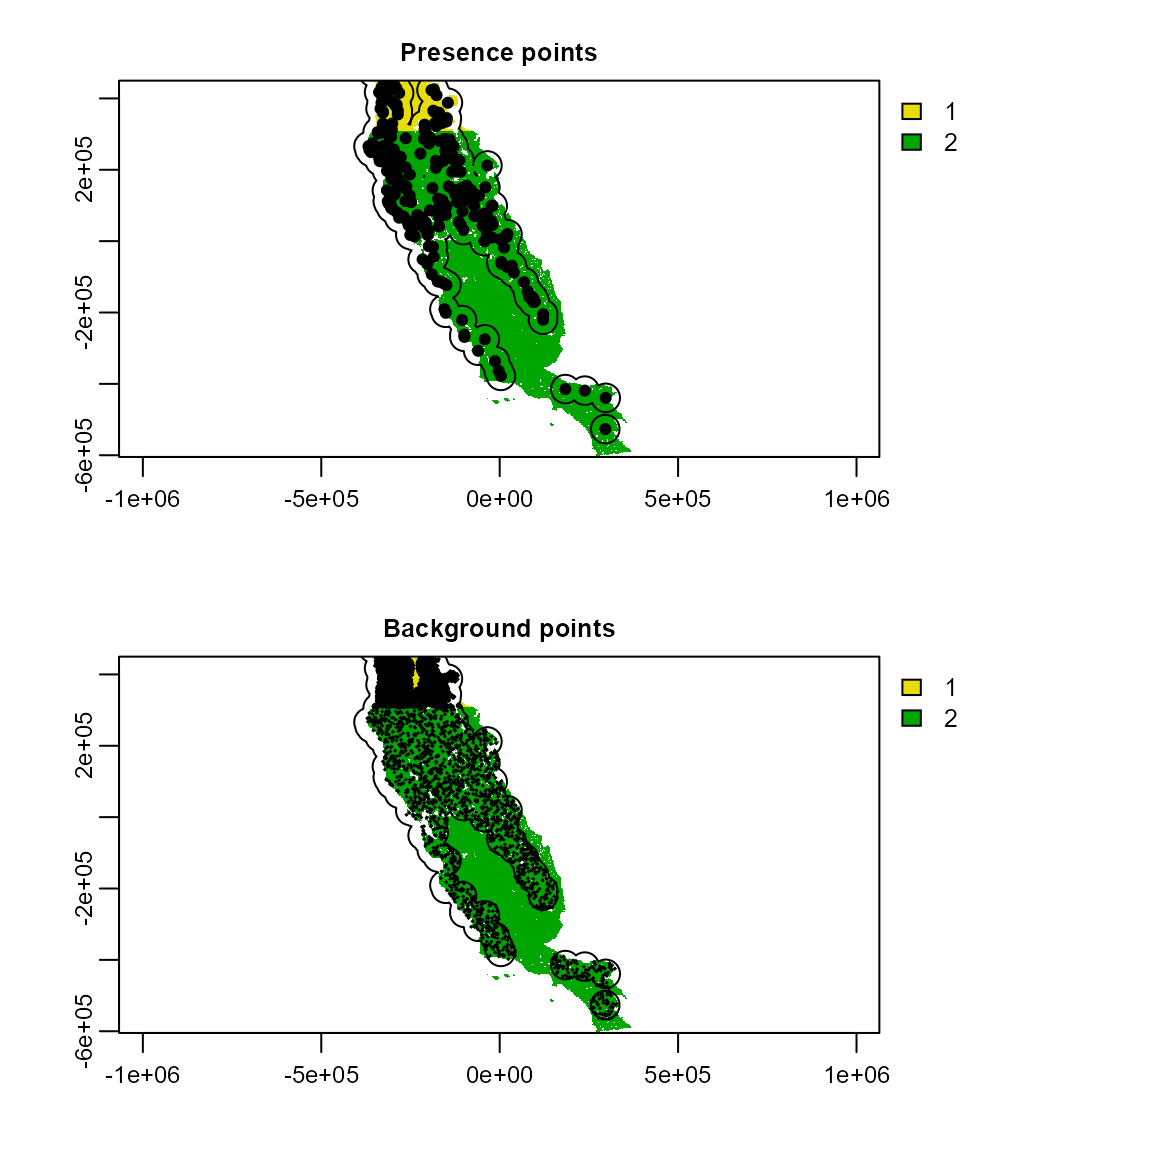
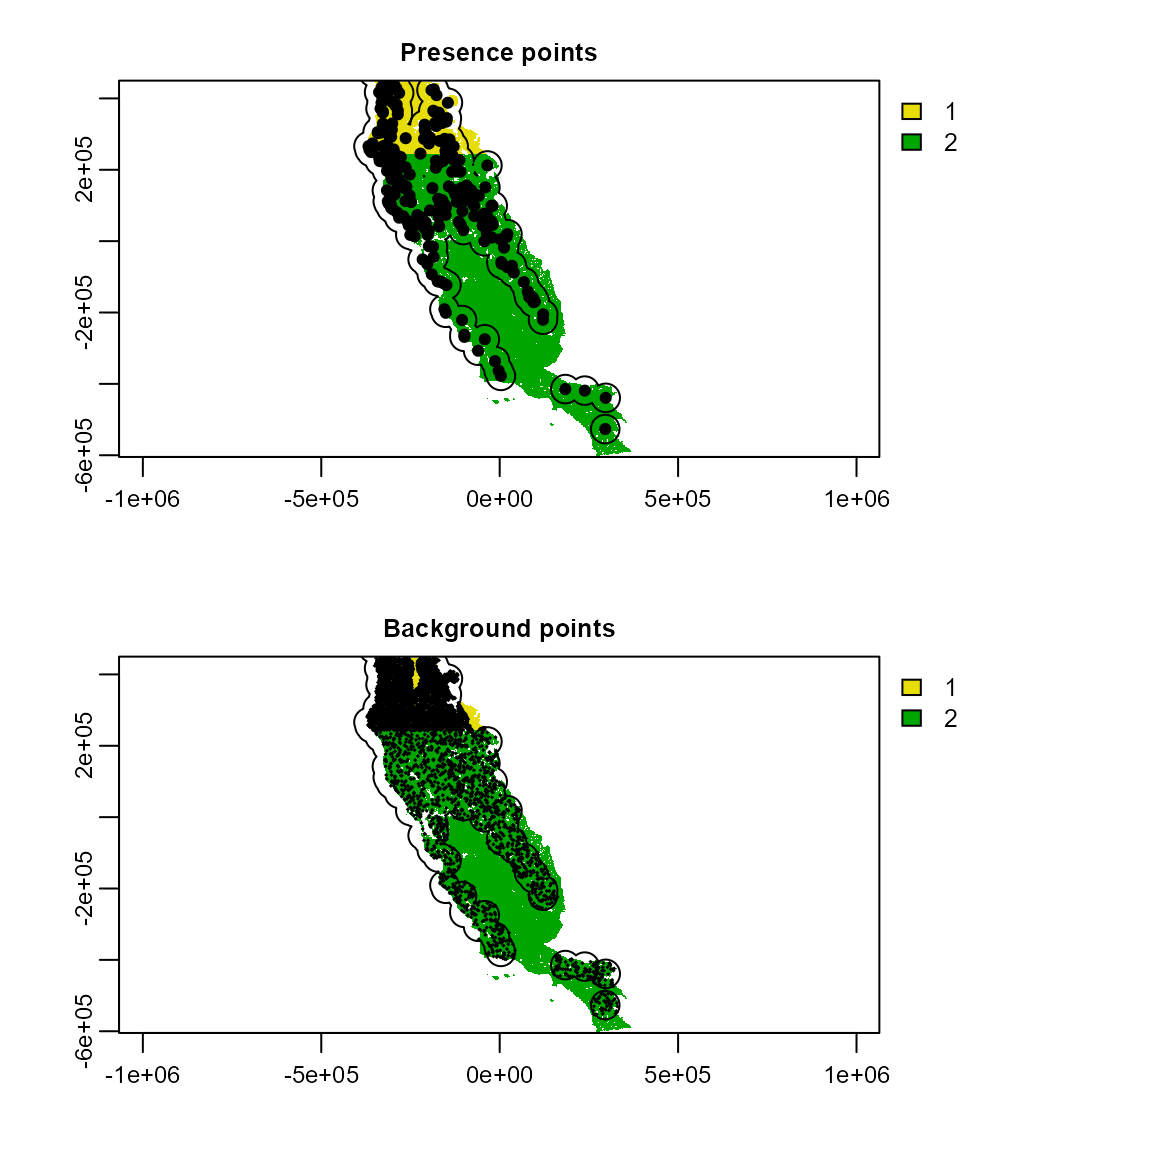
minor improvementsi in examples

Changed region(s): [[0.3125, 0.5938, 0.5, 0.7812], [0.4062, 0.7812, 0.5312, 0.9062], [0.3438, 0.0938, 0.4062, 0.1562]]

diff --git a/docs/articles/02_modeling.html b/docs/articles/02_modeling.html
@@ -180,7 +180,7 @@
               threshold <span class="op">=</span> <span class="cn">TRUE</span>, 
               return_vector <span class="op">=</span> <span class="cn">TRUE</span><span class="op">)</span>
 <span class="co">#&gt; Directories were be created in:</span>
-<span class="co">#&gt; C:\Users\santi\AppData\Local\Temp\RtmpklOMla/flex_sdm_project</span></code></pre></div>
+<span class="co">#&gt; C:\Users\santi\AppData\Local\Temp\Rtmp6x7V2j/flex_sdm_project</span></code></pre></div>
 </div>
 <div id="data-species-occurrence-and-background-data" class="section level2">
 <h2 class="hasAnchor">
@@ -247,7 +247,7 @@
 <span class="co">#&gt; $ awc      &lt;dbl&gt; 0.10837019, 0.16000000, 0.00000000, 0.09719457, 0.00000000, 0~</span>
 <span class="co">#&gt; $ depth    &lt;dbl&gt; 152.000000, 201.000000, 0.000000, 59.759930, 0.000000, 112.99~</span>
 <span class="co">#&gt; $ landform &lt;fct&gt; 7, 11, 15, 14, 15, 15, 7, 15, 4, 10, 6, 10, 10, 15, 10, 11, 1~</span>
-<span class="co">#&gt; $ .part    &lt;int&gt; 2, 4, 2, 3, 1, 1, 5, 4, 1, 2, 4, 2, 5, 2, 5, 2, 1, 4, 4, 5, 4~</span></code></pre></div>
+<span class="co">#&gt; $ .part    &lt;int&gt; 3, 5, 4, 2, 3, 3, 5, 1, 5, 5, 1, 4, 4, 1, 2, 5, 3, 1, 2, 2, 1~</span></code></pre></div>
 <p>Now, in the abies2 object we have a new column called “.part” with the 5 k-folds (1, 2, 3, 4, 5), indicating which partition each record (row) is a member of. Next, we have to apply the same partition method and number of folds to the environmental conditions of the background points.</p>
 <div class="sourceCode" id="cb5"><pre class="downlit sourceCode r">
 <code class="sourceCode R"><span class="va">backg2</span> <span class="op">&lt;-</span> <span class="fu"><a href="../reference/part_random.html">part_random</a></span><span class="op">(</span>
@@ -272,7 +272,7 @@
 <span class="co">#&gt; $ depth        &lt;dbl&gt; 0.00000, 201.00000, 50.07409, 154.39426, 122.39575, 56.17~</span>
 <span class="co">#&gt; $ percent_clay &lt;dbl&gt; 0.0000000, 0.4438345, 18.4111176, 46.9751244, 37.1873169,~</span>
 <span class="co">#&gt; $ landform     &lt;fct&gt; 13, 10, 6, 6, 10, 14, 8, 14, 6, 7, 11, 14, 14, 10, 6, 6, ~</span>
-<span class="co">#&gt; $ .part        &lt;int&gt; 3, 3, 1, 5, 3, 2, 5, 2, 1, 5, 4, 1, 5, 2, 1, 5, 5, 4, 5, ~</span></code></pre></div>
+<span class="co">#&gt; $ .part        &lt;int&gt; 3, 3, 1, 3, 5, 3, 1, 4, 3, 3, 5, 3, 5, 5, 4, 5, 1, 1, 4, ~</span></code></pre></div>
 <p>In backg2 object we have a new column called “.part” with the 5 k-folds (1, 2, 3, 4, 5).</p>
 <div id="fit-and-validate-models" class="section level3">
 <h3 class="hasAnchor">
@@ -330,9 +330,9 @@
 <span class="co">#&gt; # A tibble: 3 x 25</span>
 <span class="co">#&gt;   model threshold      thr_value n_presences n_absences TPR_mean TPR_sd TNR_mean</span>
 <span class="co">#&gt;   &lt;chr&gt; &lt;chr&gt;              &lt;dbl&gt;       &lt;int&gt;      &lt;int&gt;    &lt;dbl&gt;  &lt;dbl&gt;    &lt;dbl&gt;</span>
-<span class="co">#&gt; 1 max   equal_sens_sp~     0.590         700        700    0.663 0.0283    0.661</span>
-<span class="co">#&gt; 2 max   max_sens_spec      0.564         700        700    0.901 0.0198    0.524</span>
-<span class="co">#&gt; 3 max   max_sorensen       0.529         700        700    0.927 0.0329    0.486</span>
+<span class="co">#&gt; 1 max   equal_sens_sp~     0.590         700        700    0.659 0.0274    0.659</span>
+<span class="co">#&gt; 2 max   max_sens_spec      0.564         700        700    0.89  0.0496    0.53 </span>
+<span class="co">#&gt; 3 max   max_sorensen       0.529         700        700    0.923 0.0421    0.489</span>
 <span class="co">#&gt; # ... with 17 more variables: TNR_sd &lt;dbl&gt;, SORENSEN_mean &lt;dbl&gt;,</span>
 <span class="co">#&gt; #   SORENSEN_sd &lt;dbl&gt;, JACCARD_mean &lt;dbl&gt;, JACCARD_sd &lt;dbl&gt;, FPB_mean &lt;dbl&gt;,</span>
 <span class="co">#&gt; #   FPB_sd &lt;dbl&gt;, OR_mean &lt;dbl&gt;, OR_sd &lt;dbl&gt;, TSS_mean &lt;dbl&gt;, TSS_sd &lt;dbl&gt;,</span>
@@ -344,16 +344,16 @@
 <span class="co">#&gt; # A tibble: 1,400 x 5</span>
 <span class="co">#&gt;    rnames replicates part  pr_ab   pred</span>
 <span class="co">#&gt;    &lt;chr&gt;  &lt;chr&gt;      &lt;chr&gt; &lt;dbl&gt;  &lt;dbl&gt;</span>
-<span class="co">#&gt;  1 5      .part      1         0 0.816 </span>
-<span class="co">#&gt;  2 6      .part      1         0 0.782 </span>
-<span class="co">#&gt;  3 9      .part      1         0 0.622 </span>
-<span class="co">#&gt;  4 17     .part      1         0 0.583 </span>
-<span class="co">#&gt;  5 23     .part      1         0 0.643 </span>
-<span class="co">#&gt;  6 26     .part      1         0 0.268 </span>
-<span class="co">#&gt;  7 31     .part      1         0 0.455 </span>
-<span class="co">#&gt;  8 33     .part      1         0 0.0450</span>
-<span class="co">#&gt;  9 43     .part      1         0 0.921 </span>
-<span class="co">#&gt; 10 44     .part      1         0 0.610 </span>
+<span class="co">#&gt;  1 8      .part      1         0 0.723 </span>
+<span class="co">#&gt;  2 11     .part      1         0 0.183 </span>
+<span class="co">#&gt;  3 14     .part      1         0 0.426 </span>
+<span class="co">#&gt;  4 18     .part      1         0 0.0139</span>
+<span class="co">#&gt;  5 21     .part      1         0 0.411 </span>
+<span class="co">#&gt;  6 28     .part      1         0 0.434 </span>
+<span class="co">#&gt;  7 30     .part      1         0 0.0172</span>
+<span class="co">#&gt;  8 37     .part      1         0 0.333 </span>
+<span class="co">#&gt;  9 40     .part      1         0 0.683 </span>
+<span class="co">#&gt; 10 43     .part      1         0 0.900 </span>
 <span class="co">#&gt; # ... with 1,390 more rows</span></code></pre></div>
 <p>Predicted suitability and test partition for each observation (row).</p>
 <p>II- Random forest models with exploration of hyper-parameters.</p>
@@ -394,16 +394,16 @@
 <code class="sourceCode R"><span class="va">rf_t</span><span class="op">$</span><span class="va">model</span>
 <span class="co">#&gt; </span>
 <span class="co">#&gt; Call:</span>
-<span class="co">#&gt;  randomForest(formula = formula1, data = data, mtry = best_hyperp$mtry,      ntree = 500, importance = TRUE) </span>
+<span class="co">#&gt;  randomForest(formula = formula1, data = data, mtry = mtry, ntree = 500,      importance = FALSE, ) </span>
 <span class="co">#&gt;                Type of random forest: classification</span>
 <span class="co">#&gt;                      Number of trees: 500</span>
 <span class="co">#&gt; No. of variables tried at each split: 2</span>
 <span class="co">#&gt; </span>
-<span class="co">#&gt;         OOB estimate of  error rate: 10.93%</span>
+<span class="co">#&gt;         OOB estimate of  error rate: 11.07%</span>
 <span class="co">#&gt; Confusion matrix:</span>
 <span class="co">#&gt;     0   1 class.error</span>
-<span class="co">#&gt; 0 606  94  0.13428571</span>
-<span class="co">#&gt; 1  59 641  0.08428571</span></code></pre></div>
+<span class="co">#&gt; 0 603  97  0.13857143</span>
+<span class="co">#&gt; 1  58 642  0.08285714</span></code></pre></div>
 <p>model: A “randomForest” class object. This object can be used to see the formula details, a basic summary o fthe model, and for predicting.</p>
 <div class="sourceCode" id="cb14"><pre class="downlit sourceCode r">
 <code class="sourceCode R"><span class="va">rf_t</span><span class="op">$</span><span class="va">predictors</span>
@@ -417,7 +417,7 @@
 <span class="co">#&gt; # A tibble: 1 x 26</span>
 <span class="co">#&gt;    mtry model threshold     thr_value n_presences n_absences TPR_mean TPR_sd</span>
 <span class="co">#&gt;   &lt;dbl&gt; &lt;chr&gt; &lt;chr&gt;             &lt;dbl&gt;       &lt;int&gt;      &lt;int&gt;    &lt;dbl&gt;  &lt;dbl&gt;</span>
-<span class="co">#&gt; 1     2 raf   max_sens_spec      0.53         700        700    0.929 0.0242</span>
+<span class="co">#&gt; 1     2 raf   max_sens_spec      0.51         700        700    0.909 0.0301</span>
 <span class="co">#&gt; # ... with 18 more variables: TNR_mean &lt;dbl&gt;, TNR_sd &lt;dbl&gt;,</span>
 <span class="co">#&gt; #   SORENSEN_mean &lt;dbl&gt;, SORENSEN_sd &lt;dbl&gt;, JACCARD_mean &lt;dbl&gt;,</span>
 <span class="co">#&gt; #   JACCARD_sd &lt;dbl&gt;, FPB_mean &lt;dbl&gt;, FPB_sd &lt;dbl&gt;, OR_mean &lt;dbl&gt;, OR_sd &lt;dbl&gt;,</span>
@@ -429,16 +429,16 @@
 <span class="co">#&gt; # A tibble: 1,400 x 5</span>
 <span class="co">#&gt;    rnames replicates part  pr_ab  pred</span>
 <span class="co">#&gt;    &lt;chr&gt;  &lt;chr&gt;      &lt;chr&gt; &lt;fct&gt; &lt;dbl&gt;</span>
-<span class="co">#&gt;  1 5      .part      1     0     0.442</span>
-<span class="co">#&gt;  2 6      .part      1     0     0.23 </span>
-<span class="co">#&gt;  3 9      .part      1     0     0.338</span>
-<span class="co">#&gt;  4 17     .part      1     0     0.086</span>
-<span class="co">#&gt;  5 23     .part      1     0     0.06 </span>
-<span class="co">#&gt;  6 26     .part      1     0     0.422</span>
-<span class="co">#&gt;  7 31     .part      1     0     0.18 </span>
-<span class="co">#&gt;  8 33     .part      1     0     0.074</span>
-<span class="co">#&gt;  9 43     .part      1     0     0.86 </span>
-<span class="co">#&gt; 10 44     .part      1     0     0.932</span>
+<span class="co">#&gt;  1 8      .part      1     0     0.148</span>
+<span class="co">#&gt;  2 11     .part      1     0     0.112</span>
+<span class="co">#&gt;  3 14     .part      1     0     0.08 </span>
+<span class="co">#&gt;  4 18     .part      1     0     0.006</span>
+<span class="co">#&gt;  5 21     .part      1     0     0.128</span>
+<span class="co">#&gt;  6 28     .part      1     0     0.01 </span>
+<span class="co">#&gt;  7 30     .part      1     0     0.014</span>
+<span class="co">#&gt;  8 37     .part      1     0     0.064</span>
+<span class="co">#&gt;  9 40     .part      1     0     0.072</span>
+<span class="co">#&gt; 10 43     .part      1     0     0.908</span>
 <span class="co">#&gt; # ... with 1,390 more rows</span></code></pre></div>
 <p>Predicted suitability and test partition for each observation (row).</p>
 <p>These model objects can be used in flexsdm::fit_ensemble().</p>

diff --git a/docs/reference/part_sblock.html b/docs/reference/part_sblock.html
@@ -380,6 +380,7 @@ ineffectiveness. Diversity and Distributions, 25(4), 660-673. https://doi.org/10
     max_res_mult <span class='op'>=</span> <span class='fl'>500</span>,
     num_grids <span class='op'>=</span> <span class='fl'>30</span>,
     n_part <span class='op'>=</span> <span class='fl'>2</span>,
+    min_occ <span class='op'>=</span> <span class='fl'>5</span>,
     prop <span class='op'>=</span> <span class='fl'>0.5</span>
   <span class='op'>)</span>
   <span class='va'>result</span>
@@ -428,7 +429,7 @@ ineffectiveness. Diversity and Distributions, 25(4), 660-673. https://doi.org/10
   min_res_mult <span class='op'>=</span> <span class='fl'>10</span>,
   max_res_mult <span class='op'>=</span> <span class='fl'>500</span>,
   num_grids <span class='op'>=</span> <span class='fl'>30</span>,
-  n_part <span class='op'>=</span> <span class='fl'>2</span>,
+  n_part <span class='op'>=</span> <span class='fl'>4</span>,
   min_occ <span class='op'>=</span> <span class='fl'>10</span>,
   prop <span class='op'>=</span> <span class='fl'>0.5</span>
 <span class='op'>)</span>
@@ -439,10 +440,9 @@ ineffectiveness. Diversity and Distributions, 25(4), 660-673. https://doi.org/10
 
 <span class='fu'><a href='https://rdrr.io/pkg/terra/man/plot.html'>plot</a></span><span class='op'>(</span><span class='va'>part</span><span class='op'>$</span><span class='va'>grid</span><span class='op'>)</span>
 <span class='fu'><a href='https://rdrr.io/pkg/terra/man/lines.html'>points</a></span><span class='op'>(</span>
-  <span class='va'>part</span><span class='op'>$</span><span class='va'>part</span><span class='op'>[</span><span class='fu'><a href='https://rdrr.io/pkg/terra/man/c.html'>c</a></span><span class='op'>(</span><span class='st'>"x"</span>, <span class='st'>"y"</span><span class='op'>)</span><span class='op'>]</span>,
-  col <span class='op'>=</span> <span class='fu'><a href='https://rdrr.io/pkg/terra/man/c.html'>c</a></span><span class='op'>(</span><span class='st'>"blue"</span>, <span class='st'>"red"</span><span class='op'>)</span><span class='op'>[</span><span class='va'>part</span><span class='op'>$</span><span class='va'>part</span><span class='op'>$</span><span class='va'>.part</span><span class='op'>]</span>,
-  cex <span class='op'>=</span> <span class='fl'>0.5</span>,
-  pch <span class='op'>=</span> <span class='fl'>19</span>
+<span class='va'>part</span><span class='op'>$</span><span class='va'>part</span><span class='op'>[</span><span class='fu'><a href='https://rdrr.io/pkg/terra/man/c.html'>c</a></span><span class='op'>(</span><span class='st'>"x"</span>, <span class='st'>"y"</span><span class='op'>)</span><span class='op'>]</span>,
+col <span class='op'>=</span> <span class='fu'><a href='https://rdrr.io/pkg/terra/man/c.html'>c</a></span><span class='op'>(</span><span class='st'>"blue"</span>, <span class='st'>"red"</span>, <span class='st'>"green"</span>, <span class='st'>"black"</span><span class='op'>)</span><span class='op'>[</span><span class='va'>part</span><span class='op'>$</span><span class='va'>part</span><span class='op'>$</span><span class='va'>.part</span><span class='op'>]</span>,
+cex <span class='op'>=</span> <span class='fl'>0.5</span>,
 <span class='op'>)</span>
 <span class='op'>}</span>
 

diff --git a/docs/reference/tune_max.html b/docs/reference/tune_max.html
@@ -263,6 +263,8 @@ database is used in <code><a href='fit_ensemble.html'>fit_ensemble</a></code></p
 <span class='op'>)</span>
 <span class='va'>abies2</span>
 
+<span class='fu'><a href='https://rdrr.io/r/base/Random.html'>set.seed</a></span><span class='op'>(</span><span class='fl'>1</span><span class='op'>)</span>
+<span class='va'>backg</span> <span class='op'>&lt;-</span> <span class='fu'>dplyr</span><span class='fu'>::</span><span class='fu'><a href='https://dplyr.tidyverse.org/reference/sample_n.html'>sample_n</a></span><span class='op'>(</span><span class='va'>backg</span>, size <span class='op'>=</span> <span class='fl'>2000</span>, replace <span class='op'>=</span> <span class='cn'>FALSE</span><span class='op'>)</span>
 <span class='va'>backg2</span> <span class='op'>&lt;-</span> <span class='fu'><a href='part_random.html'>part_random</a></span><span class='op'>(</span>
   data <span class='op'>=</span> <span class='va'>backg</span>,
   pr_ab <span class='op'>=</span> <span class='st'>"pr_ab"</span>,
@@ -280,7 +282,7 @@ database is used in <code><a href='fit_ensemble.html'>fit_ensemble</a></code></p
 <span class='va'>max_t1</span> <span class='op'>&lt;-</span> <span class='fu'>tune_max</span><span class='op'>(</span>
   data <span class='op'>=</span> <span class='va'>abies2</span>,
   response <span class='op'>=</span> <span class='st'>"pr_ab"</span>,
-  predictors <span class='op'>=</span> <span class='fu'><a href='https://rdrr.io/pkg/terra/man/c.html'>c</a></span><span class='op'>(</span><span class='st'>"aet"</span>, <span class='st'>"ppt_jja"</span>, <span class='st'>"pH"</span>, <span class='st'>"awc"</span>, <span class='st'>"depth"</span><span class='op'>)</span>,
+  predictors <span class='op'>=</span> <span class='fu'><a href='https://rdrr.io/pkg/terra/man/c.html'>c</a></span><span class='op'>(</span><span class='st'>"aet"</span>, <span class='st'>"pH"</span>, <span class='st'>"awc"</span>, <span class='st'>"depth"</span><span class='op'>)</span>,
   predictors_f <span class='op'>=</span> <span class='fu'><a href='https://rdrr.io/pkg/terra/man/c.html'>c</a></span><span class='op'>(</span><span class='st'>"landform"</span><span class='op'>)</span>,
   partition <span class='op'>=</span> <span class='st'>".part"</span>,
   background <span class='op'>=</span> <span class='va'>backg2</span>,
@@ -289,7 +291,7 @@ database is used in <code><a href='fit_ensemble.html'>fit_ensemble</a></code></p
   metric <span class='op'>=</span> <span class='st'>"TSS"</span>,
   clamp <span class='op'>=</span> <span class='cn'>TRUE</span>,
   pred_type <span class='op'>=</span> <span class='st'>"cloglog"</span>,
-  n_cores <span class='op'>=</span> <span class='fl'>1</span>
+  n_cores <span class='op'>=</span> <span class='fl'>2</span> <span class='co'># activate two cores for speed up this process</span>
 <span class='op'>)</span>
 
 <span class='fu'><a href='https://rdrr.io/pkg/terra/man/dimensions.html'>length</a></span><span class='op'>(</span><span class='va'>max_t1</span><span class='op'>)</span>

diff --git a/docs/articles/03_post_modeling.html b/docs/articles/03_post_modeling.html
@@ -153,7 +153,7 @@
               threshold <span class="op">=</span> <span class="cn">TRUE</span>, 
               return_vector <span class="op">=</span> <span class="cn">TRUE</span><span class="op">)</span>
 <span class="co">#&gt; Directories were be created in:</span>
-<span class="co">#&gt; C:\Users\santi\AppData\Local\Temp\Rtmp4wdIjq/flex_sdm_project</span></code></pre></div>
+<span class="co">#&gt; C:\Users\santi\AppData\Local\Temp\RtmpEVUryQ/flex_sdm_project</span></code></pre></div>
 </div>
 <div id="species-occurrence-presenceabsense-and-environmental-data" class="section level2">
 <h2 class="hasAnchor">
@@ -459,8 +459,8 @@
 <span class="co">#&gt; sources     : memory  </span>
 <span class="co">#&gt;               memory  </span>
 <span class="co">#&gt; names       :      esm_gam,      max_fpb </span>
-<span class="co">#&gt; min values  : 2.135319e-05, 0.000000e+00 </span>
-<span class="co">#&gt; max values  :    0.8926136,    1.0000000</span>
+<span class="co">#&gt; min values  : 2.107821e-05, 0.000000e+00 </span>
+<span class="co">#&gt; max values  :    0.8755471,    1.0000000</span>
 
 <span class="co"># Plot to see this layers</span>
 <span class="va">small_p_rst</span> <span class="op">&lt;-</span> <span class="fu">terra</span><span class="fu">::</span><span class="fu"><a href="https://rdrr.io/pkg/terra/man/rast.html">rast</a></span><span class="op">(</span><span class="va">small_p</span><span class="op">)</span>
@@ -582,7 +582,7 @@
 <span class="co">#&gt; 4        2 glm   equal_sens_sp~     0.523         700        700    0.663 0.0583</span>
 <span class="co">#&gt; 5        2 glm   max_sens_spec      0.463         700        700    0.803 0.111 </span>
 <span class="co">#&gt; 6        2 glm   max_sorensen       0.356         700        700    0.876 0.0436</span>
-<span class="co">#&gt; 7        3 raf   max_sens_spec      0.606         700        700    0.916 0.0430</span>
+<span class="co">#&gt; 7        3 raf   max_sens_spec      0.638         700        700    0.916 0.0430</span>
 <span class="co">#&gt; # ... with 19 more variables: TNR_mean &lt;dbl&gt;, TNR_sd &lt;dbl&gt;,</span>
 <span class="co">#&gt; #   SORENSEN_mean &lt;dbl&gt;, SORENSEN_sd &lt;dbl&gt;, JACCARD_mean &lt;dbl&gt;,</span>
 <span class="co">#&gt; #   JACCARD_sd &lt;dbl&gt;, FPB_mean &lt;dbl&gt;, FPB_sd &lt;dbl&gt;, OR_mean &lt;dbl&gt;, OR_sd &lt;dbl&gt;,</span>

diff --git a/docs/articles/01_pre_modeling.html b/docs/articles/01_pre_modeling.html
@@ -554,7 +554,7 @@
 <p>However, we notice that the grid partition produced by part_sblock has a different resolution than the original environmental variables. If you want a map layer with the same properties (i.e. resolution, extent, NAs) as your original environmental variables, apply the get_block() function to the grid resulting from part_sblock(). This layer can be really useful for generating pseudo-absence or background sample points, which we will explore in the next section.</p>
 <div class="sourceCode" id="cb22"><pre class="downlit sourceCode r">
 <code class="sourceCode R"><span class="fu">terra</span><span class="fu">::</span><span class="fu"><a href="https://rdrr.io/pkg/terra/man/dimensions.html">res</a></span><span class="op">(</span><span class="va">sp_part3</span><span class="op">$</span><span class="va">grid</span><span class="op">)</span>
-<span class="co">#&gt; [1] 913065.5 913065.5</span>
+<span class="co">#&gt; [1] 849196.6 849196.6</span>
 <span class="fu">terra</span><span class="fu">::</span><span class="fu"><a href="https://rdrr.io/pkg/terra/man/dimensions.html">res</a></span><span class="op">(</span><span class="va">somevar</span><span class="op">)</span>
 <span class="co">#&gt; [1] 1890 1890</span>
 

diff --git a/docs/reference/sample_background.html b/docs/reference/sample_background.html
@@ -246,7 +246,8 @@ https://doi.org/10.1111/ecog.04503</p></li>
   pr_ab <span class='op'>=</span> <span class='st'>"pr_ab"</span>,
   min_res_mult <span class='op'>=</span> <span class='fl'>100</span>,
   max_res_mult <span class='op'>=</span> <span class='fl'>500</span>,
-  num_grids <span class='op'>=</span> <span class='fl'>10</span>,
+  num_grids <span class='op'>=</span> <span class='fl'>30</span>,
+  min_occ <span class='op'>=</span> <span class='fl'>5</span>,
   n_part <span class='op'>=</span> <span class='fl'>2</span>
 <span class='op'>)</span>
 

diff --git a/docs/reference/get_block.html b/docs/reference/get_block.html
@@ -174,6 +174,7 @@
   min_res_mult <span class='op'>=</span> <span class='fl'>100</span>,
   max_res_mult <span class='op'>=</span> <span class='fl'>500</span>,
   num_grids <span class='op'>=</span> <span class='fl'>10</span>,
+  min_occ <span class='op'>=</span> <span class='fl'>5</span>,
   n_part <span class='op'>=</span> <span class='fl'>2</span>
 <span class='op'>)</span>
 
